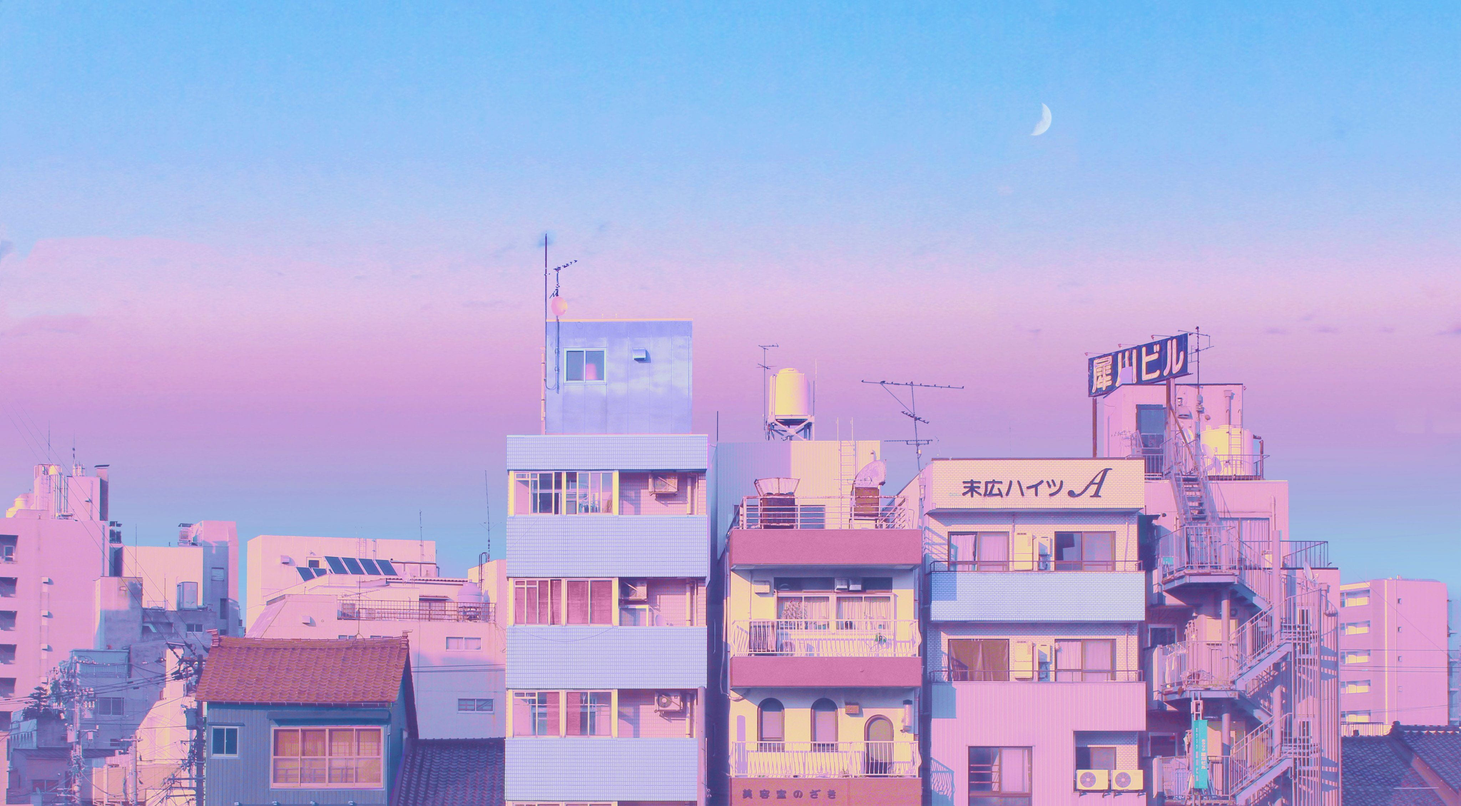
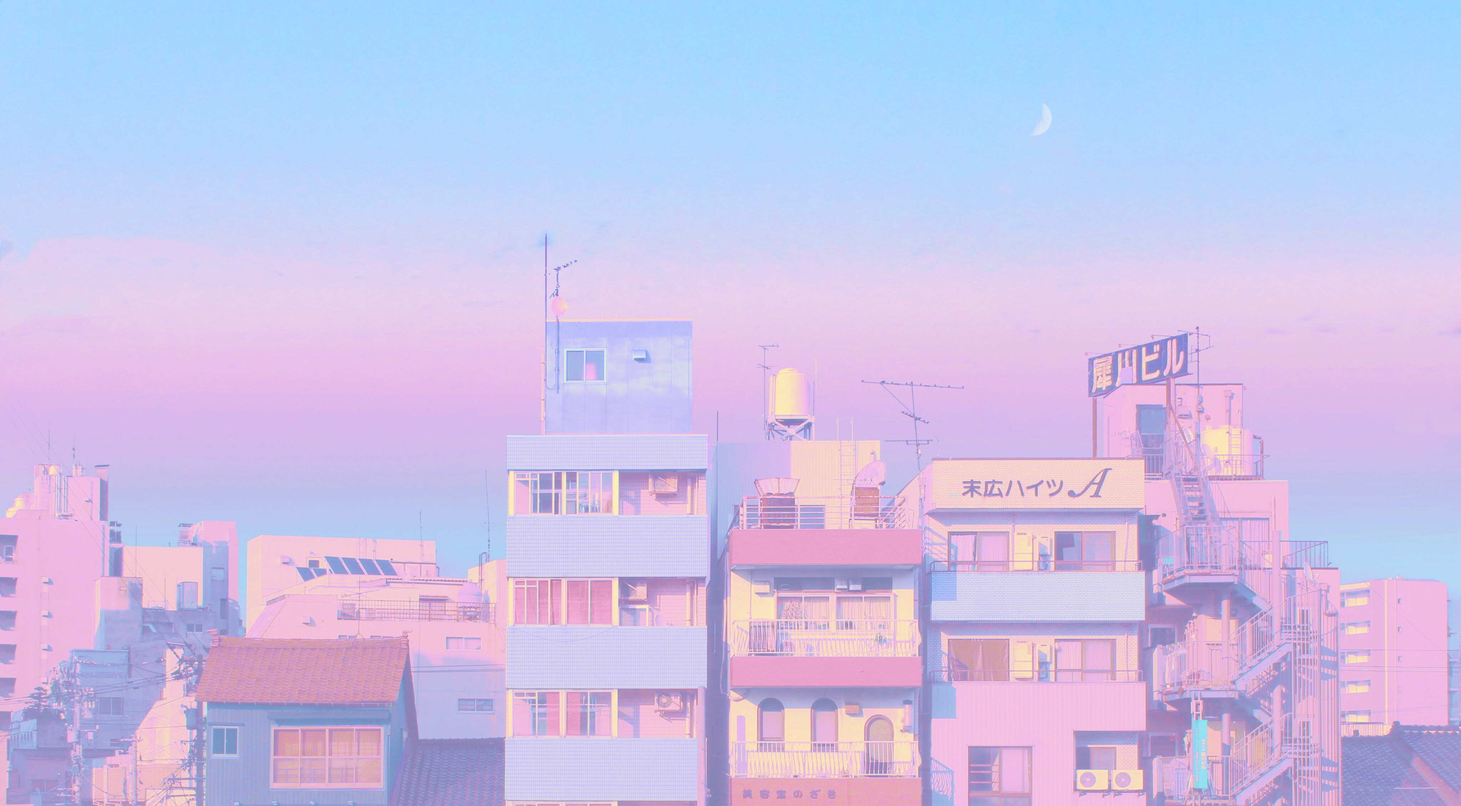
wallpapers: the Sorbet pictures recoloured into the Sorbet Day palette

diff --git a/README.md b/README.md
@@ -453,7 +453,7 @@ Restart open apps afterwards (Files caches icons per window).
 Add `--system` to install to `/usr/share/icons` instead, for every user and the
 login screen (asks for sudo); `--user` is the default.
 
-Wallpapers ship in [`backgrounds/`](backgrounds/), named `sorbetday-<subject>`, the same pictures as Sorbet:
+Wallpapers ship in [`backgrounds/`](backgrounds/), named `sorbetday-<subject>`, the same pictures as Sorbet, lifted into Sorbet Day's light key:
 five pastel photographs: a black-sand shore, a pink pyramid in a lilac
 desert, mint headphones, a pastel city block under a sliver of moon and a
 tower against a pink-to-cyan sky, plus the anime portrait from the
